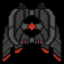
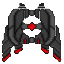
added background and updated enemy images

diff --git a/sketch.js b/sketch.js
@@ -1,4 +1,4 @@
-var player, bullet, snd_bg, snd_playershootm, snd_explosion;
+var player, bullet, bg, snd_bg, snd_playershootm, snd_explosion;
 
 var shot = false;
 var cantPickup = false;
@@ -65,7 +65,7 @@ var levelSpawns = [
 function addEnemy(num, x, y, increment) {
     for(let i =0; i < num; i++) {
         let enemy = createSprite(x ? x :Math.random()*width,y ? y : Math.random()*height*.3, 32,32);
-        enemy.addAnimation("idle",'./assets/enemy2_32x32.png')
+        enemy.addAnimation("idle",'./assets/enemy2_32x32-new.png')
         enemy.setCollider("circle",0,0,16)
         enemies.add(enemy);
     } 
@@ -363,9 +363,10 @@ function drawStart(){
     fill(255);
     text('Welcome!', width/2-(textWidth('Welcome!')/2), 200);
     text('Press E to shoot', width/2-(textWidth('Press E to shoot')/2), 230);
-    text('Hold W to move in the direction the ship is facing', width/2-(textWidth('Hold W to move in the direction the ship is facing')/2), 260);
-    text('Hold S to slow down', width/2-(textWidth('Hold S to slow down')/2), 290);
-    text('Press enter to start!', width/2-(textWidth('Press enter to start!')/2), 320);
+    text('Hold W to move in the direction', width/2-(textWidth('Hold W to move in the direction')/2), 260);
+    text('the ship is facing', width/2-(textWidth('the ship is facing')/2), 290);
+    text('Hold S to slow down', width/2-(textWidth('Hold S to slow down')/2), 320);
+    text('Press enter to start!', width/2-(textWidth('Press enter to start!')/2), 350);
 }
 
 function clearBoard(movePlayer){
@@ -398,17 +399,21 @@ function preload() {
     snd_explosion = loadSound("./assets/explosion.wav");
     snd_explosion.setVolume(5);
 
+    bg = loadImage('./assets/bg.png');
+
   }
 
 
 async function setup() {
-    createCanvas(700, 600);
+    createCanvas(640, 640);
     snd_bg.loop();
     player = createSprite(width/2,height-100,32,32)
     player.addAnimation("floating",'./assets/player_32x32.png');
 
     bullet = createSprite(width/2,-200,4,4);
     bullet.addAnimation("floating", './assets/bullet.png');
+
+    
 
     //Spawn inital enemies and astroids.
     // addEnemy(levelSpawns[0].mini);
@@ -421,11 +426,8 @@ async function setup() {
 }
 
 
-
-
-
 function draw() {
-    background(255);
+    background(bg);
     
     drawSprites();
     if(!started){
